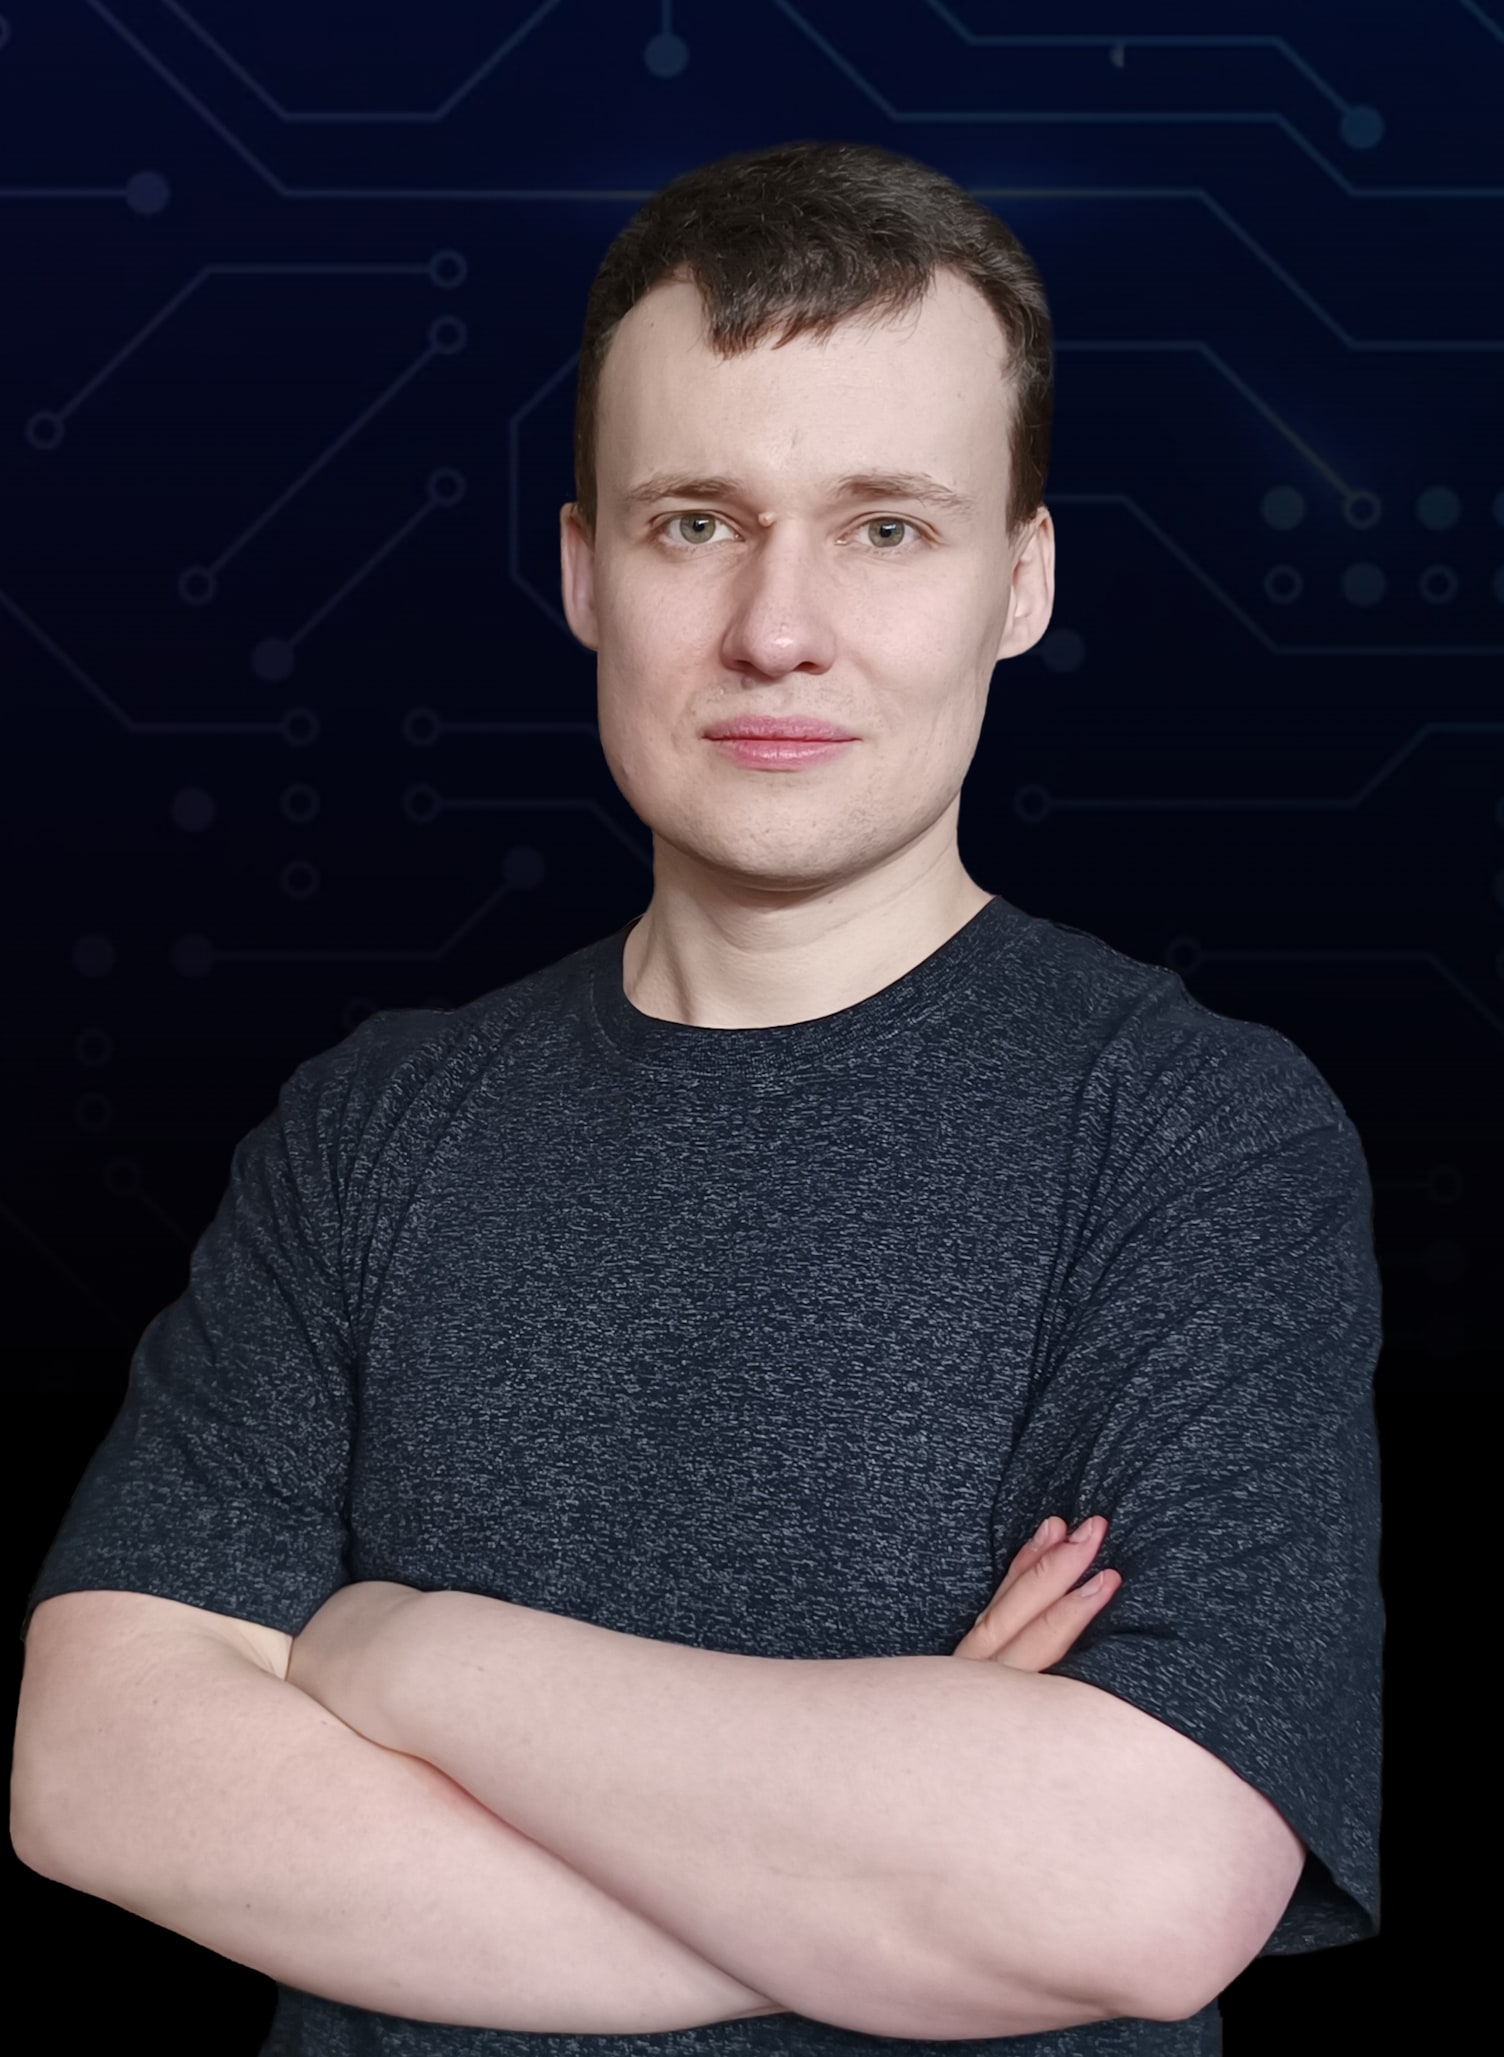
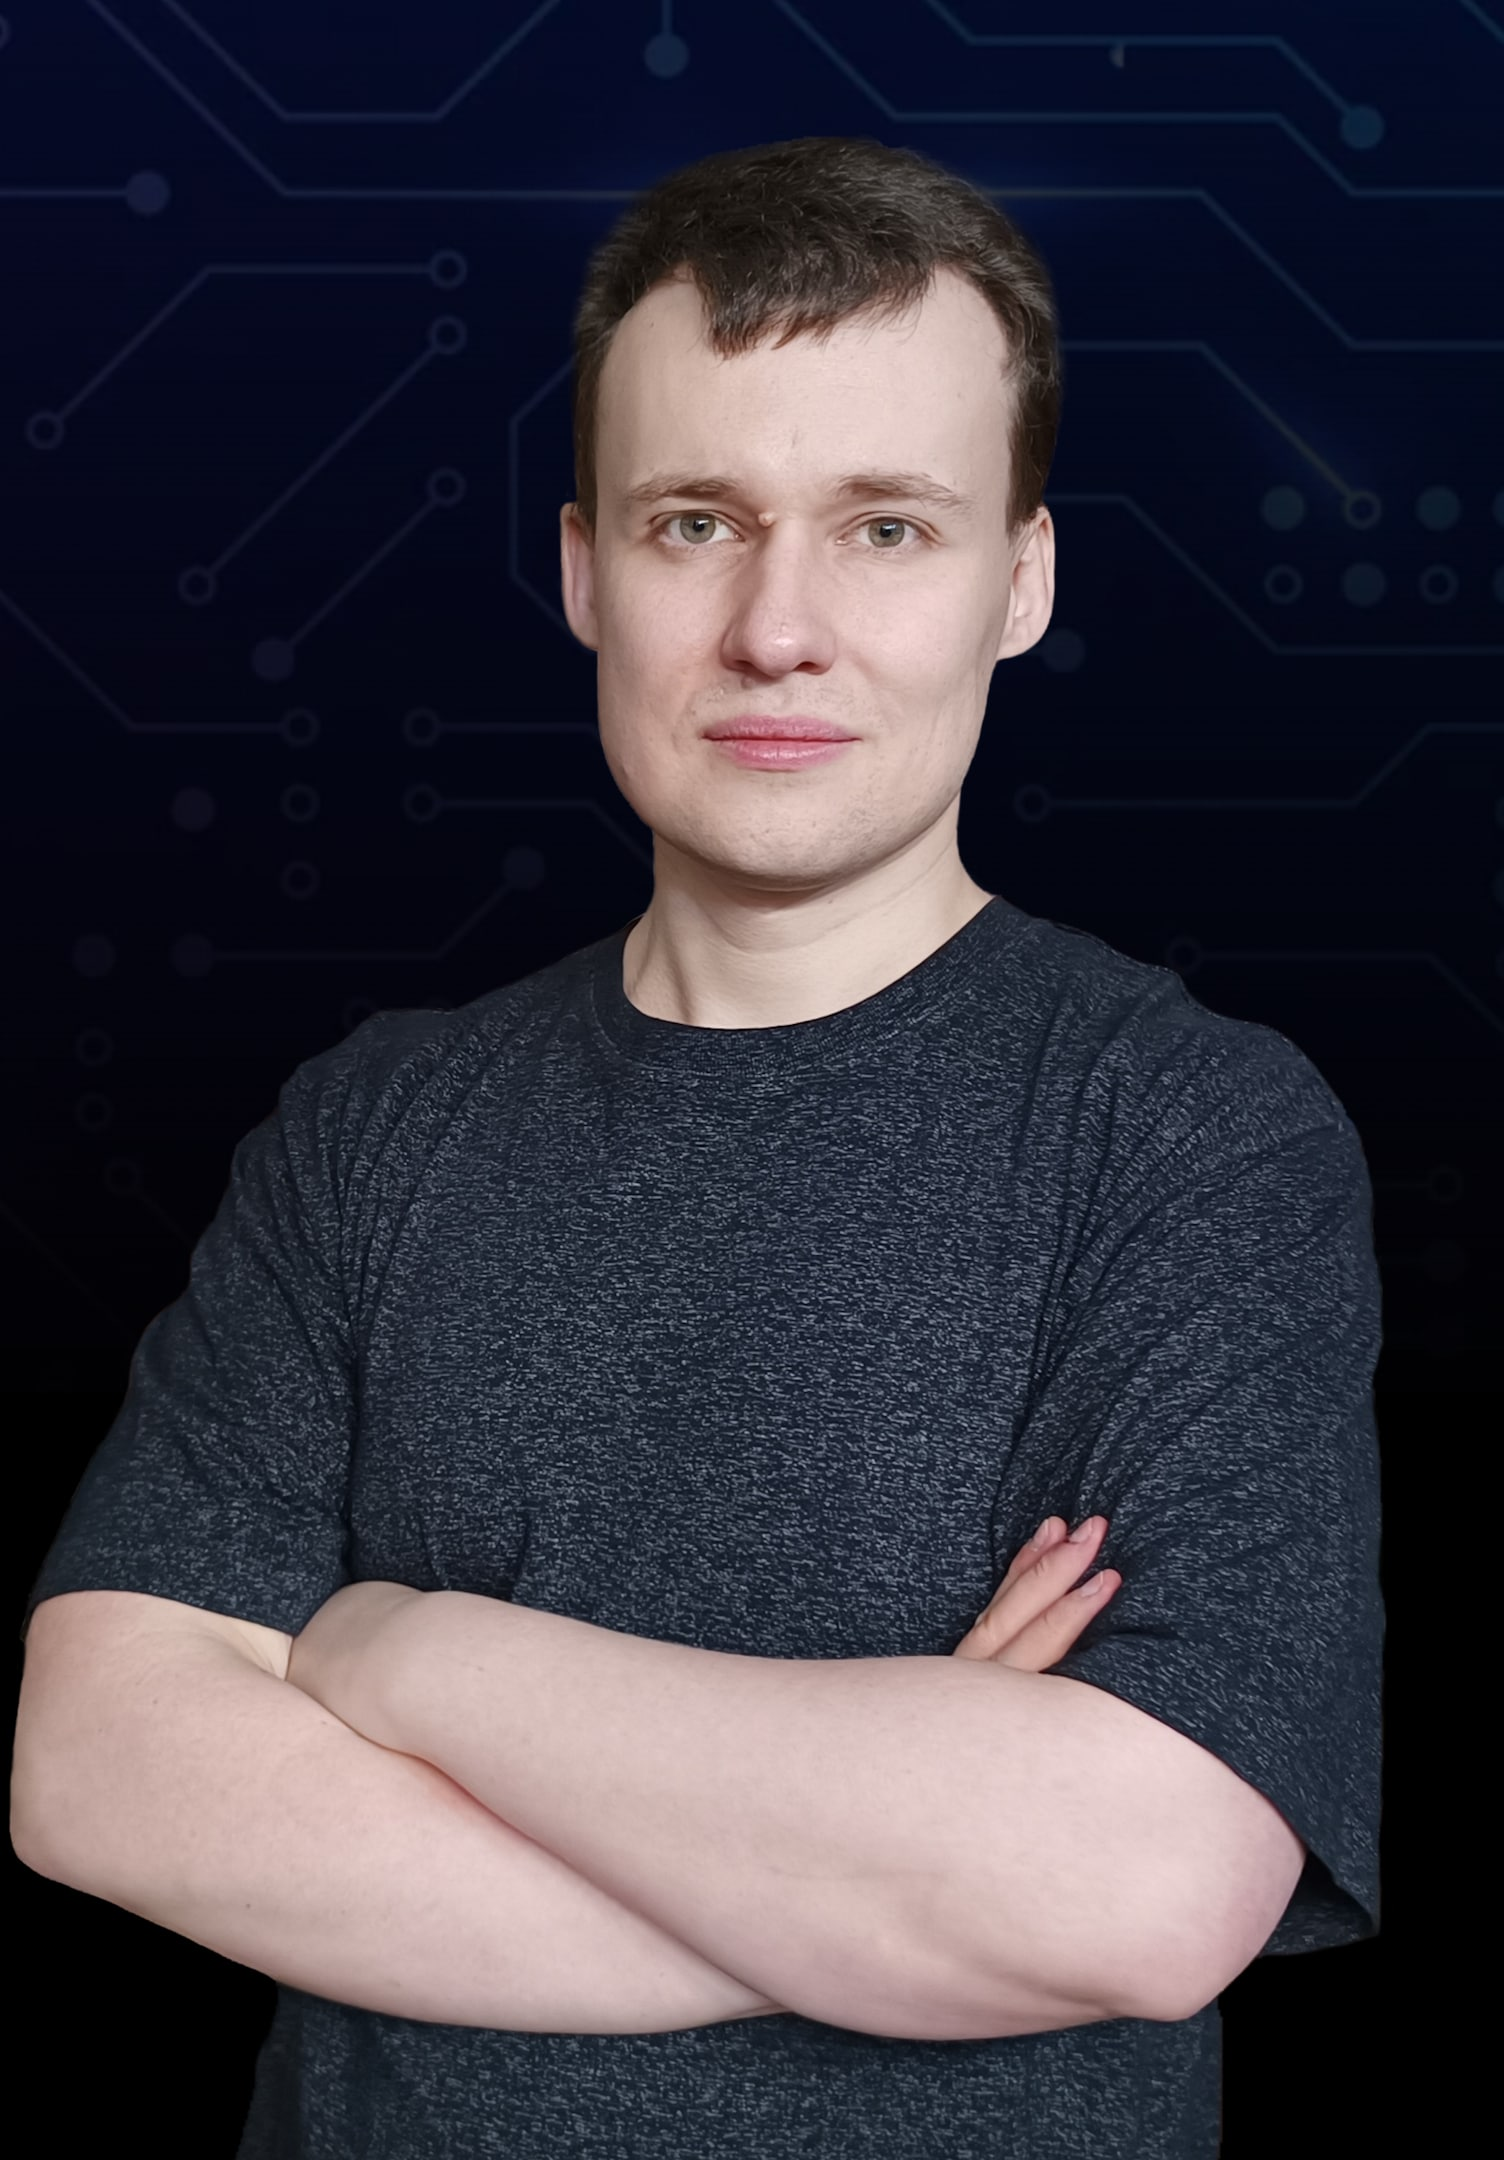
changed layout for schema.org in article component

Changed region(s): [[0.0, 0.0622, 0.9375, 1.0]]

diff --git a/components/common/BlogArticle/DescriptionParser/MyHighlight.tsx b/components/common/BlogArticle/DescriptionParser/MyHighlight.tsx
@@ -45,8 +45,13 @@ export default function MyHighlight({ language, code, theme, ...rest }: Props) {
             component="code"
             width="100%"
             className={className}
+            itemScope
+            itemType="https://schema.org/Thing"
             sx={{
+              ...style,
+              display: "block",
               position: "relative",
+              overflow: "hidden",
               clear: "both",
               borderRadius: "10px",
               my: "1px",
@@ -97,16 +102,18 @@ export default function MyHighlight({ language, code, theme, ...rest }: Props) {
                   },
                 },
               },
-              ...style,
             }}
           >
             <Stack
+              component={"menu"}
               width="100%"
               flexDirection={"row"}
               sx={{
                 ...style,
                 alignItems: "flex-center",
                 px: "14px",
+                py: 0,
+                m: 0,
                 "&&": {
                   "& > *": {
                     p: "3px",
@@ -157,6 +164,10 @@ export default function MyHighlight({ language, code, theme, ...rest }: Props) {
               <Box
                 sx={{ flexGrow: 1, textTransform: "uppercase", color: "#888" }}
               >
+                <meta
+                  itemProp="name"
+                  content={`computer code ${replacedLanguage} ${className}`}
+                />
                 {replacedLanguage}
               </Box>
               <Button
@@ -178,7 +189,12 @@ export default function MyHighlight({ language, code, theme, ...rest }: Props) {
                 {codeHasBeenCopied ? "Код скопирован" : "Скопировать"}
               </Button>
             </Stack>
-            <Box component={"pre"} className={className} sx={{ ...style }}>
+            <Box
+              itemProp="description"
+              component={"pre"}
+              className={className}
+              sx={{ ...style }}
+            >
               {tokens.map((line, i) => {
                 const { style, ...restProps } = getLineProps({
                   line,

diff --git a/pages/computer-master-balashiha.tsx b/pages/computer-master-balashiha.tsx
@@ -191,7 +191,7 @@ export const getStaticProps = async (context: GetStaticPropsContext) => {
       ...makeImageType({
         url: imageUrl,
         width: 1504,
-        height: 2057,
+        height: 2160,
         alt: `Дмитрий, компьютерный мастер в Балашихе, выпускник МГТУ МИРЭА (РТУ МИРЭА)`,
       }),
     };
